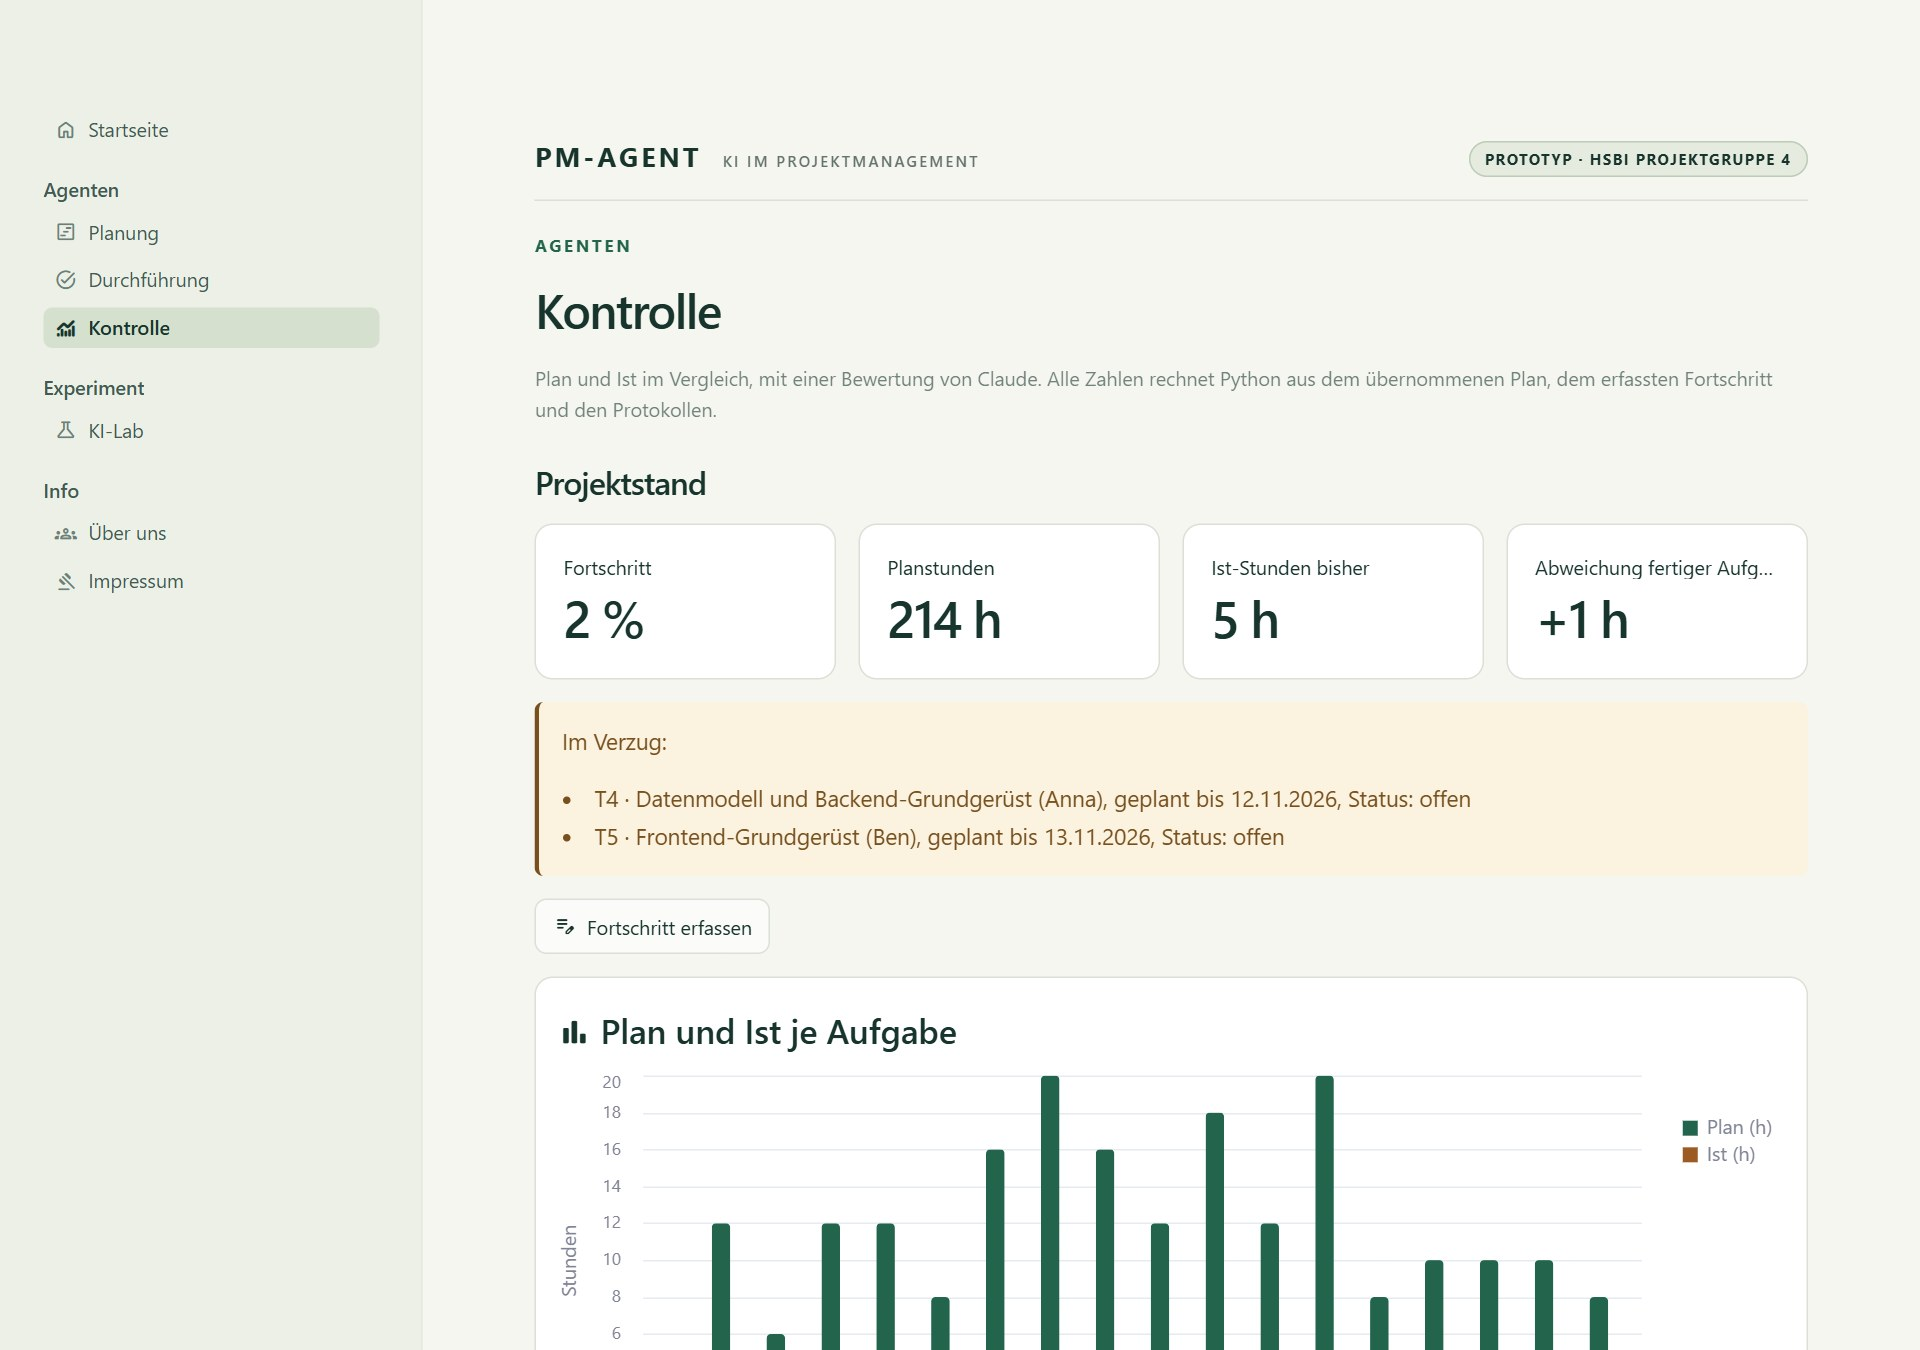
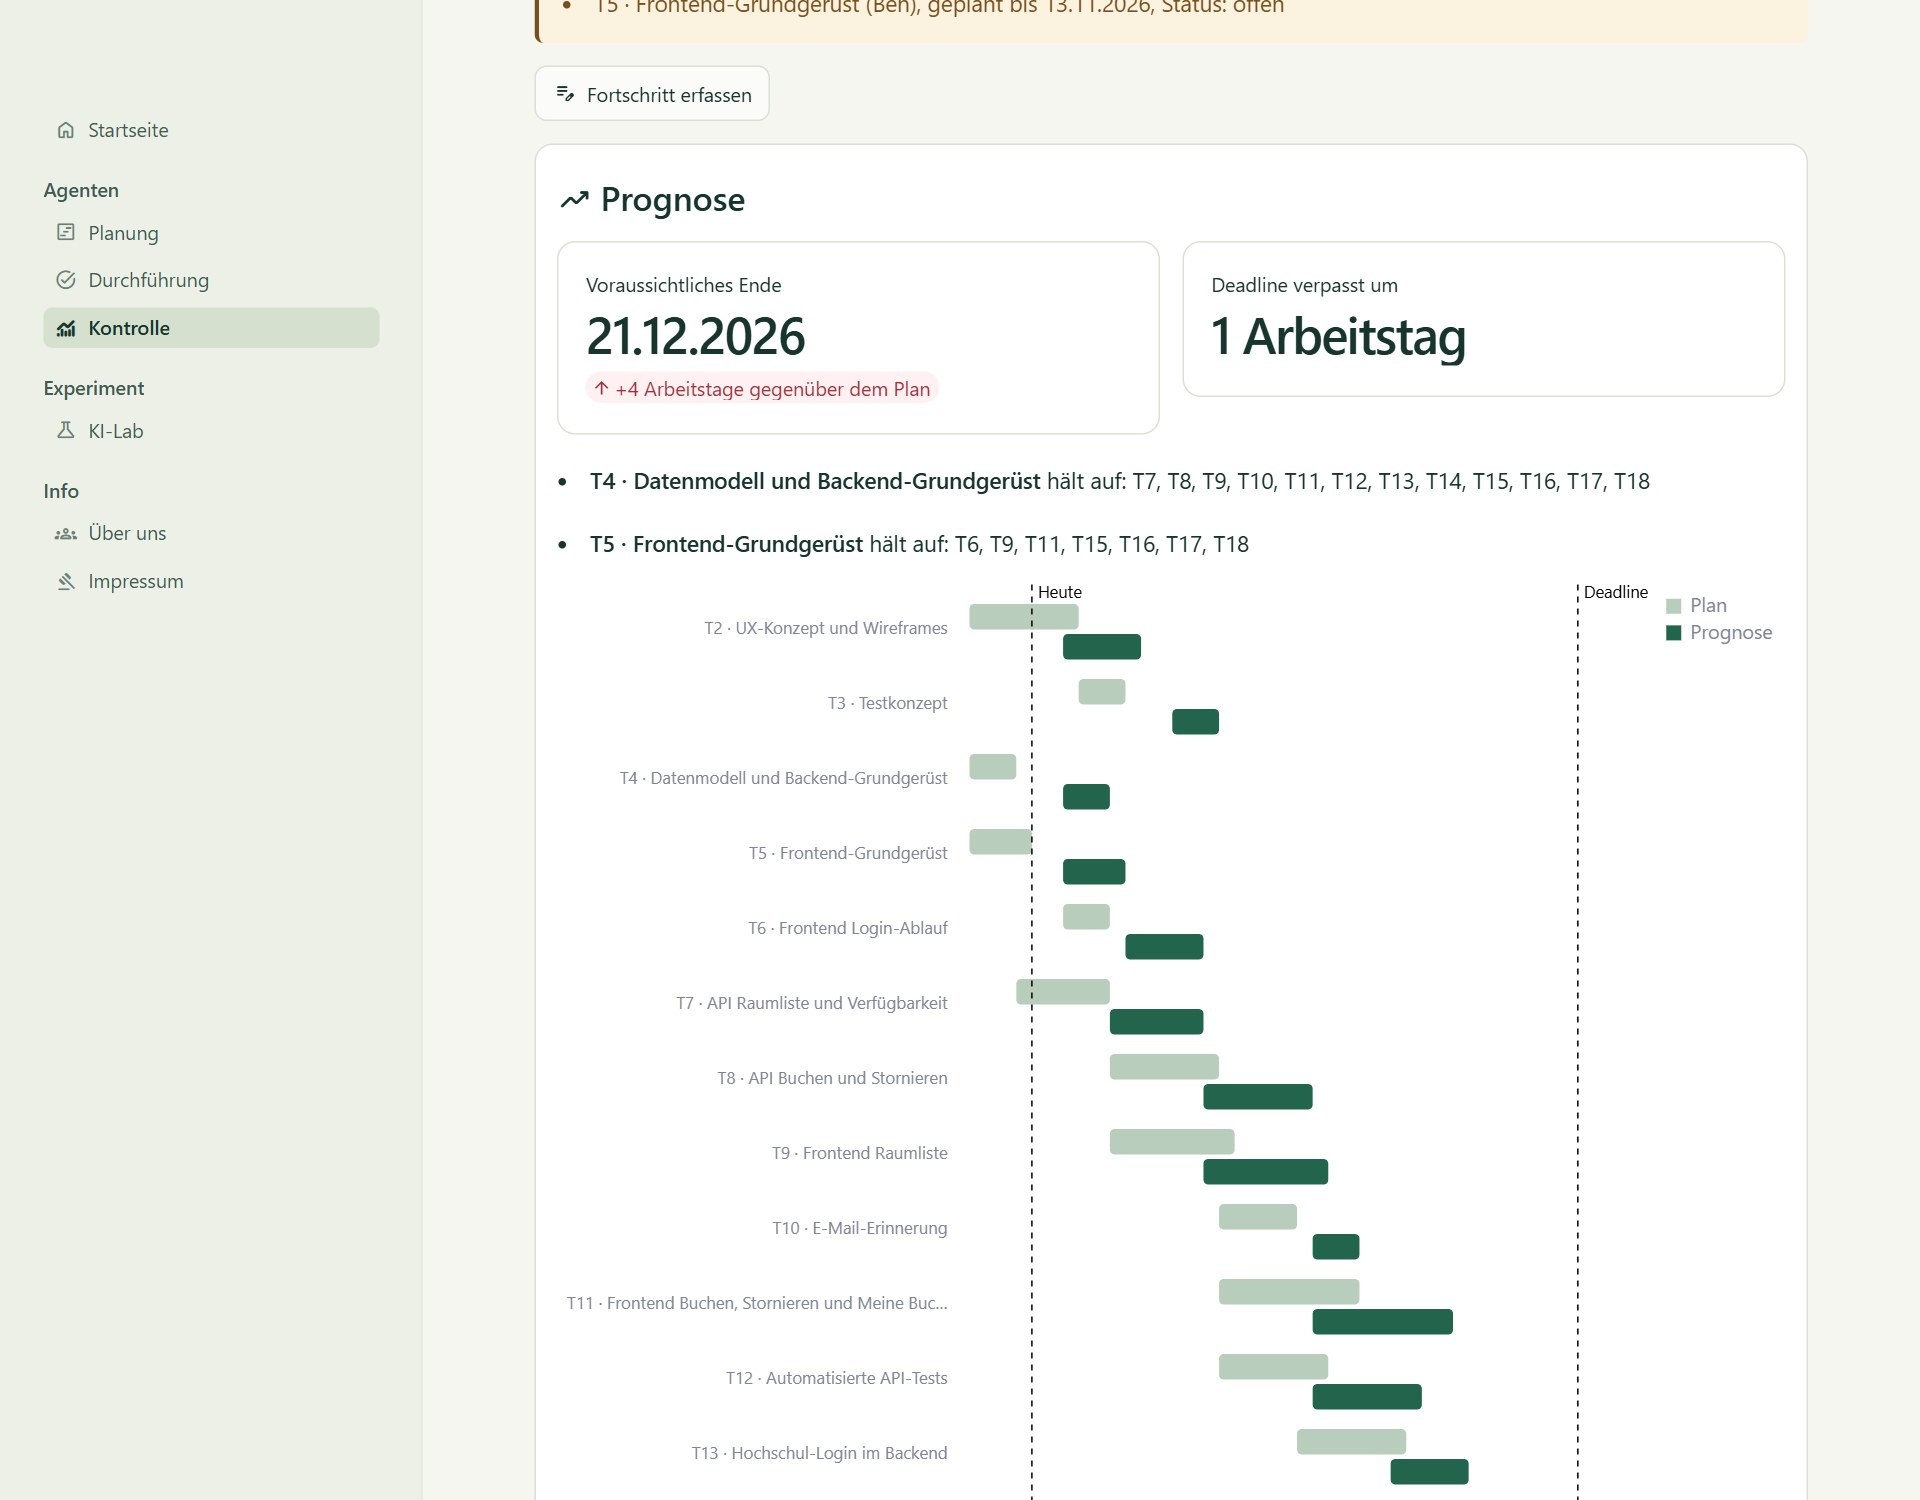
docs: README covers absences, the task explanation and the forecast
Three things the site does now were missing from the README: absences in
the team, the answer to "why this person" for every task, and the forecast
on the Kontrolle page. Two screenshots are new, the others are retaken.

The utilisation columns of the Planung page show whole per cent, rounded
up like the overload warning.

diff --git a/04-Prototyp/pm_agent/pages/planung.py b/04-Prototyp/pm_agent/pages/planung.py
@@ -6,6 +6,7 @@ use persist_state="session"; the two table editors cannot, so their content is k
 session state and restored when the user comes back (see restore_editors).
 """
 
+import math
 import time
 from datetime import date, datetime
 from html import escape
@@ -139,6 +140,12 @@ def decide(accept: bool) -> None:
             proposal["seconds"],
             rounds_start=proposal["basis"],
         )
+
+
+def whole_percent(share: float | None) -> float | None:
+    """A share for a table column, rounded up to whole per cent like the overload warning:
+    100.2 % must not read as 100 %. None (away until the deadline) stays empty."""
+    return None if share is None else math.ceil(round(share * 100, 9)) / 100
 
 
 def go(step: str) -> None:
@@ -394,7 +401,7 @@ with tabs[3]:
                             "Person": item.member,
                             "Zugewiesen (h)": round(item.assigned_hours, 1),
                             "Verfügbar (h)": round(item.capacity_hours, 1),
-                            "Auslastung": item.utilization,
+                            "Auslastung": whole_percent(item.utilization),
                         }
                         for item in result.load
                     ]
@@ -480,7 +487,7 @@ with tabs[3]:
                                         f"{skill} {level}"
                                         for skill, level in other["skills"].items()
                                     ),
-                                    "Auslastung": other["utilization"],
+                                    "Auslastung": whole_percent(other["utilization"]),
                                 }
                                 for other in view["alternatives"]
                             ]

diff --git a/README.md b/README.md
@@ -91,7 +91,8 @@ KI-Lab, Über uns und Impressum. Sie läuft nur auf dem eigenen Rechner.
 ### Planung
 
 Sechs Schritte: Team, Projekt, Planung, Ergebnis, Anpassen, Export. Eine Leiste zeigt, was noch
-fehlt, und jeder Schritt führt in den nächsten.
+fehlt, und jeder Schritt führt in den nächsten. Zum Team gehören Skills, Wochenstunden und
+Abwesenheiten: An Tagen, an denen jemand fehlt, wird für die Person keine Arbeit eingeplant.
 
 <div align="center">
 <img src="04-Prototyp/pm_agent/assets/screenshots/planung-ergebnis.jpg" width="820" alt="Schritt Ergebnis: Planende, Fehler und Warnungen als Kennzahlen, darunter der Terminplan als Gantt-Diagramm mit Deadline-Linie">
@@ -100,6 +101,15 @@ fehlt, und jeder Schritt führt in den nächsten.
 Das Ergebnis zeigt Terminplan mit kritischem Pfad, Auslastung je Person, Risiken und die
 Begründung jeder Zuweisung. Der Plan lässt sich als Markdown oder CSV exportieren und als
 Projekt übernehmen.
+
+Zu jeder Aufgabe gibt es die Antwort auf „Warum diese Person, und was hängt daran?“: Claudes
+Begründung, die Stufe der Person in jedem verlangten Skill, was vorher fertig sein muss und was
+darauf wartet, wie viele Arbeitstage Puffer die Aufgabe hat, und wer im Team sie sonst
+übernehmen könnte. Nur die Begründung stammt von Claude, alles andere rechnet Python.
+
+<div align="center">
+<img src="04-Prototyp/pm_agent/assets/screenshots/planung-aufgabe.jpg" width="820" alt="Aufgabe im Detail: Person, Stunden, Zeitraum und kritischer Pfad als Marken, Claudes Begründung, Skills, Vorgänger und Nachfolger, darunter wer die Aufgabe sonst übernehmen könnte">
+</div>
 
 ### Den Plan im Gespräch ändern
 
@@ -122,14 +132,20 @@ von Hand; dann läuft nur die Prüfung.
 
 ### Durchführung und Kontrolle
 
-Beide Seiten rechnen mit dem übernommenen Plan und dem erfassten Fortschritt. Die Durchführung
-füllt Statusbericht und Arbeitspaketbeschreibungen aus Vorlagen. Die Kontrolle stellt Plan und
-Ist gegenüber, nennt Aufgaben im Verzug und rechnet Kosten, sobald ein Stundensatz gesetzt ist.
-Auf beiden Seiten macht ein Agent einen Vorschlag, den Python nur annimmt, wenn er jede Aufgabe
-im Verzug behandelt.
+Beide Seiten rechnen mit dem übernommenen Plan und dem erfassten Fortschritt (Status,
+Ist-Stunden und, wo bekannt, der geschätzte Rest je Aufgabe). Die Durchführung füllt
+Statusbericht und Arbeitspaketbeschreibungen aus Vorlagen. Die Kontrolle stellt Plan und Ist
+gegenüber, nennt Aufgaben im Verzug und rechnet Kosten, sobald ein Stundensatz gesetzt ist. Auf
+beiden Seiten macht ein Agent einen Vorschlag, den Python nur annimmt, wenn er jede Aufgabe im
+Verzug behandelt.
+
+Die Kontrolle sagt auch, was ein Verzug bedeutet. Die **Prognose** plant alles, was noch nicht
+fertig ist, ab heute neu ein und vergleicht das Ende mit Plan und Deadline. Im Beispiel unten
+sind zwei Aufgaben ein bis zwei Tage im Verzug; die Folge ist ein Ende vier Arbeitstage nach
+Plan und einen Tag nach der Deadline.
 
 <div align="center">
-<img src="04-Prototyp/pm_agent/assets/screenshots/kontrolle.jpg" width="820" alt="Seite Kontrolle: Fortschritt, Planstunden, Ist-Stunden und Abweichung als Kennzahlen, Hinweis auf zwei Aufgaben im Verzug, Diagramm Plan und Ist je Aufgabe">
+<img src="04-Prototyp/pm_agent/assets/screenshots/kontrolle.jpg" width="820" alt="Prognose auf der Seite Kontrolle: voraussichtliches Ende 21.12.2026, vier Arbeitstage nach Plan, Deadline um einen Arbeitstag verpasst; welche Aufgaben die beiden verspäteten aufhalten; Diagramm mit Plan und Prognose je Aufgabe und Linien für heute und die Deadline">
 </div>
 
 ### KI-Lab
@@ -200,6 +216,8 @@ Was der Prototyp bewusst vereinfacht:
   Person.
 - **Terminierung:** Aufgaben werden in der Reihenfolge ihrer Abhängigkeiten eingeplant, nicht
   optimiert. Ein Plan kann deshalb länger ausfallen als nötig.
+- **Prognose:** Die restliche Arbeit beginnt heute und läuft in der Reihenfolge des Plans.
+  Ohne eingetragenen Rest zählt eine begonnene Aufgabe mit Schätzung minus Ist-Stunden.
 - **Kosten:** Stunden mal Stundensatz. Token-Kosten der Agenten werden gezählt, aber nicht in
   Euro umgerechnet.
 
